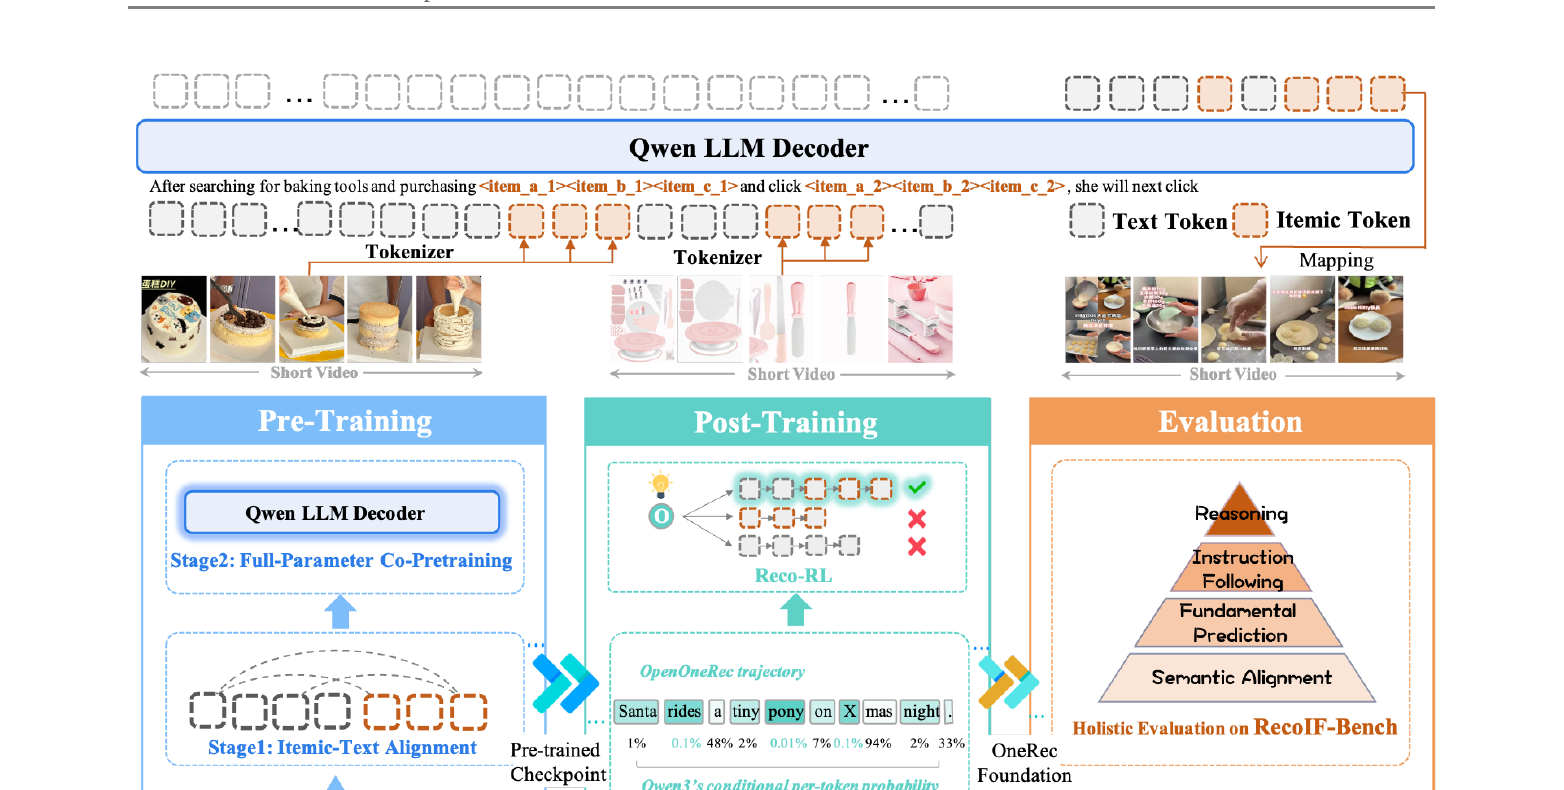
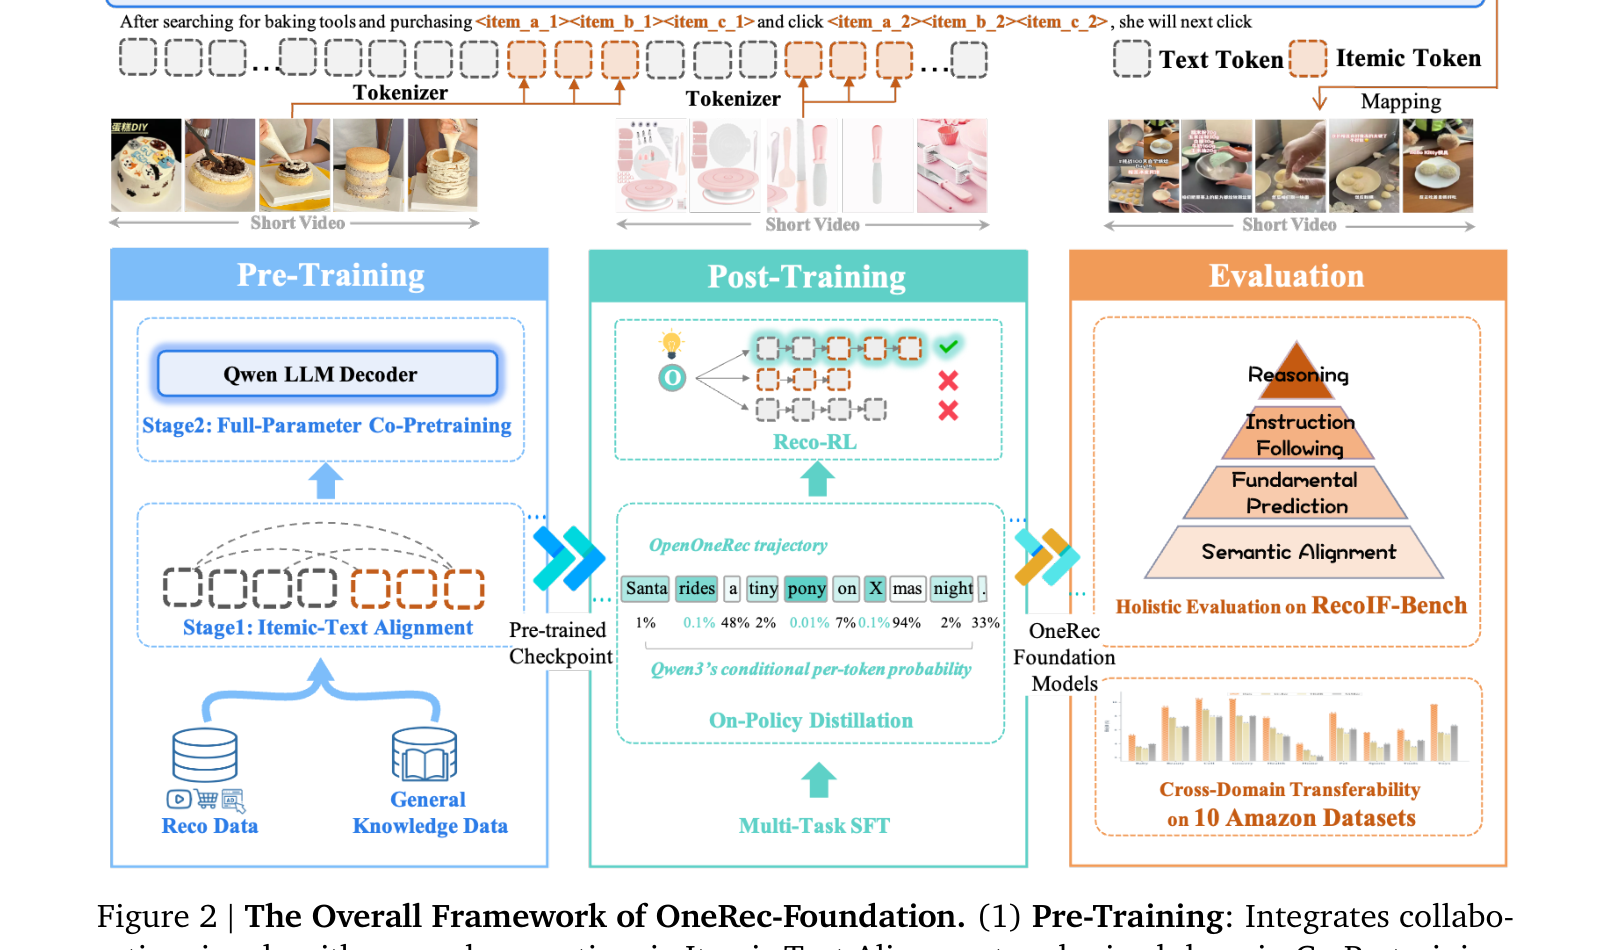
update blog posts: add CPT guide and recommender system thinking chain articles, update wechat images

diff --git a/blog-wechat/2026-06-08-推荐系统到底存不存在"思维链"?.md b/blog-wechat/2026-06-08-推荐系统到底存不存在"思维链"?.md
@@ -1,12 +1,12 @@
 ---
-title: "推荐系统学会“思考”之后：为什么最早一批“会想”的模型，反而更笨了？"
+title: "推荐系统到底存不存在“思维链”？"
 date: 2026-06-08
 tags: [公众号]
 ---
 
-# 推荐系统学会"思考"之后:为什么最早一批"会想"的模型,反而更笨了?
+# 推荐系统到底存不存在"思维链"?
 
-> 我们花了一周精读快手 OneReason、北航&美团 CaLIR,又顺着它们的参考文献把人大 ReaRec、LARES、STREAM-Rec 等一串工作捋了一遍。这篇文章想沿着一条逻辑链把它们串起来:**推理链本该是推荐相比普通监督训练的额外收益源——但最早一批"硬加 CoT"的方法没吃到这个收益,甚至更差。于是后来的工作开始诊断"为什么没吃到",并给出各自的解药。** 顺着这条线,你会自然看清推理在 train 和 infer 时和普通监督训练到底差在哪。
+> 最近精读了快手 OneReason、北航&美团 CaLIR,又顺着它们的参考文献把人大 ReaRec、LARES、STREAM-Rec 等一串工作捋了一遍。读到最后,我心里冒出一个越想越站得住的判断,先把它放在开头(**这是作者观点,不是论文里的定论,欢迎拍砖**):**推荐系统大概率并不存在 LLM 意义上的"思维链"——它的内核从头到尾还是协同过滤,而所谓"推理链 / CoT",本质上是借了一个时髦概念,给协同过滤加了一层正则化约束。** 这篇文章会沿着一条逻辑链把这些工作串起来:推理链看着像推荐相比普通监督多出来的额外收益源,但最早一批"硬加 CoT"的方法没吃到、甚至更差;后来的工作诊断出"为什么",给出各自解药——而当你把这些解药拆开看,会发现真正起作用的从来不是"模型在思考",而是"往协同过滤里注入了什么样的约束"。
 
 ---
 
@@ -44,7 +44,15 @@ tags: [公众号]
 
 记住这条主线,后面第三章的"假思考"就好理解了:一旦该注入的信息没真正进去(itemic 嵌入被稀释、链子是空的),CoT 就只剩一个空草稿区,自然吃不到收益。
 
-所以推荐圈自然想抄 LLM 的作业:**在出推荐之前,先让模型生成一段 CoT。** 收益看起来唾手可得——可惜,把"留出思考空间"错当成了"注入有效信息"。
+### 再往前推一步(作者观点):这其实就是给协同过滤加"正则"
+
+如果你顺着上面这条线再想一层,会得到一个更祛魅、也更统一的解释——**我个人越来越倾向这么看,但要声明这是我的判断、不是论文结论:推荐里的"思维链",本质上不是一种新的推理能力,而是给协同过滤模型加的一层正则化约束。**
+
+推荐的内核从矩阵分解、双塔、SASRec 一路到 TIGER,从没变过——都是在拟合"谁和谁共现、谁和谁相似"的协同信号。CoT / 推理链做的事,不是让模型获得了"思考"这种全新能力,而是把外部先验(LLM 语义、类目树、意图层级)以"推理步骤"的形式,作为额外约束项压进了训练目标。从这个角度看,它和 L2 正则、图正则、对比学习辅助损失扮演的是同一个角色:**给协同过滤的解空间加约束,防止它在稀疏数据上乱拟合、并把外部结构灌进去。** 只不过这次的正则项,恰好长得像"一段推理文字"。
+
+这个视角的好处是,它能一口气解释完后面所有现象:**有效的推理链=有效的正则,无效甚至有害的推理链=失效或带噪的正则。** 带着这把尺子往下读,你会发现每一篇工作其实都在回答同一个问题——这层正则,到底加对了没有。
+
+所以推荐圈自然想抄 LLM 的作业:**在出推荐之前,先让模型生成一段 CoT。** 收益看起来唾手可得——可惜,把"留出思考空间"错当成了"加上了一个有效的正则"。
 
 ---
 
@@ -96,6 +104,8 @@ TIGER(无推理基线)              25.98
 **CaLIR 的诊断:显式推理链会污染后续生成。** 在生成式检索里,推理链一旦不完整或过窄,会**污染后续的 beam search**;而物品 SID 不像自然语言有语义冗余,**第一个 token 错了就很难救回来**。更糟的是,显式推理逼着模型在检索前就把自己**钉死**在某个离散的中间标签上——多意图查询一旦类目猜窄,就全盘皆输。再加上显式解码 token 带来的高延迟(后面会看到数字),这条路在电商工业场景根本不划算。
 
 > 一句话概括两家的诊断:**"思考"不是一个能直接外接、插上就用的功能模块;它要么需要把感知/认知地基逐层夯实(OneReason),要么需要换一种不污染、不钉死的承载形式(CaLIR)。**
+
+翻译成第一章那把"正则"的尺子:**朴素 CoT 之所以失效,是因为它是个带噪甚至有害的正则项——约束没真正压到协同信号上(假思考),反而扰乱了生成空间(污染 beam)。** 模型确实生成了一段像样的推理文字,但那段文字没起到"约束解空间、灌入外部结构"的作用,等于加了个空转的正则。这也再次说明:重点从来不是"模型有没有在思考",而是"这层约束有没有加对"。
 
 这就引出了分别的解药——而解药的具体做法,正好把"推理 vs 普通监督训练"的区别,在 train 和 infer 两个阶段都暴露了出来。
 
@@ -202,15 +212,27 @@ TIGER(无推理)                R@100 = 25.98
 
 把这个视角叠到推理上:我们期待推理带来的,本质也是一种"泛化"——把理解、组合、推导用到没见过的情境里。但如果连生成式推荐原本的"泛化"都可能是记忆的乔装,那我们就更该警惕:别被"模型生成了一段推理文字"这个表象骗了。真正要验证的始终是同一件事:那份额外的计算/推理,到底是真的带来了泛化,还是只是换个姿势在背诵。
 
+### 我的结论(欢迎拍砖):推荐没有"思维链",只有协同过滤的正则
+
+把开头那个判断在这里收一下口。我个人的结论是:**推荐系统并不存在 LLM 意义上的"思维链"。** 它没有"先理解、再推导、最后决策"的真实认知过程,内核始终是那个老老实实拟合共现/相似结构的协同过滤;所谓推理链,是我们借了 LLM 的概念,给这个内核加了一层正则化外衣。
+
+可能有人立刻拿 MemGen-GR 那个发现反驳:生成式模型在"需要泛化"的样本上确实更强,这不正说明它超出了纯记忆、有了某种推理吗?但恰恰是那篇文章的第二层结论替我把话说圆了——**那份"泛化"很多退化成了 semantic ID 空间里的 token 级记忆**。换句话说,看似的推理能力,拆到底层还是共现统计在起作用,只是换了个更细的粒度。这非但不反对"内核是协同过滤",反而是它的一个佐证。
+
+需要强调的是,**说它"只是正则",绝不是说它没用**——好的正则能实打实涨指标(OneReason 让"思考>不思考"成立、CaLIR 把 R@100 从 25.98 抬到 36.15)。我想破除的只是那层拟人化的浪漫想象:不要以为模型真的学会了"思考",从而对它的可解释性、可靠性抱有不切实际的期待。把它当成"一种把外部结构灌进协同过滤的、恰好长得像推理的正则手段",你反而能更冷静地判断:这层正则在我的场景里,该不该加、怎么加、加多深。
+
+(这是一家之言,定义"思维链"的口径不同,结论可能就不同——如果你有不同看法,我很乐意被说服。)
+
 ---
 
 ## 八、结语
 
-推荐系统正在从"学一个匹配函数",走向"学一套思考过程"。
+回到标题那个问题:推荐系统到底存不存在"思维链"?
 
-但这条路最值得记住的一课,不是"加了推理就变好",而是:**收益源摆在那,不等于能白捡。** 最早硬加 CoT 的方法没吃到收益,逼出了后来对"为什么没吃到"的系统性诊断,也逼出了两条解药——显式路线把感知/认知地基逐层夯实(train 阶段补预训练+SFT+RL),隐式路线换掉会污染的承载形式(train 给隐状态接监督、infer 用隐状态多步计算+约束生成)。
+我的答案是:**严格意义上,不存在。** 推荐没有"先理解、再推导、最后决策"的真实认知;它一直在做协同过滤,而"推理链"是给这个内核加的一层正则——有时加对了(OneReason、CaLIR),有时加错了甚至加坏了(早期硬塞 CoT)。所以这篇文章真正值得记住的一课,不是"加了推理就变好",而是:**别被"模型在思考"这个表象迷住,要去看那层约束到底有没有压到协同信号上。** 最早硬加 CoT 的方法没吃到收益,正是因为那层正则空转了;后来的两条解药——显式路线把感知/认知地基逐层夯实(train 阶段补预训练+SFT+RL),隐式路线换掉会污染的承载形式(train 给隐状态接监督、infer 用隐状态多步计算+约束生成)——本质都是在想办法把这层正则加对、加实。
 
-无论哪条路,它们和普通监督训练的根本区别都落在同一处:**普通监督是"一次前向、定额计算、直接映射";推理式是"先想几步、计算可调、要为'怎么想'额外付出训练代价"。** 而这份额外代价能不能换来收益,取决于你有没有把推理真正落地到决策上。
+无论哪条路,它们和普通监督训练的根本区别都落在同一处:**普通监督是"一次前向、定额计算、直接映射";推理式是"先绕几步、计算可调、要为'怎么约束'额外付出训练代价"。** 而这份额外代价能不能换来收益,取决于你有没有把那层约束真正落到决策上——而不是取决于模型有没有"装出在思考的样子"。
+
+(再说一遍:这是作者的一家之言。如果你坚持认为隐空间里的多步计算就配得上"思维链"三个字,那也是一种站得住的口径——欢迎来辩。)
 
 ---
 
